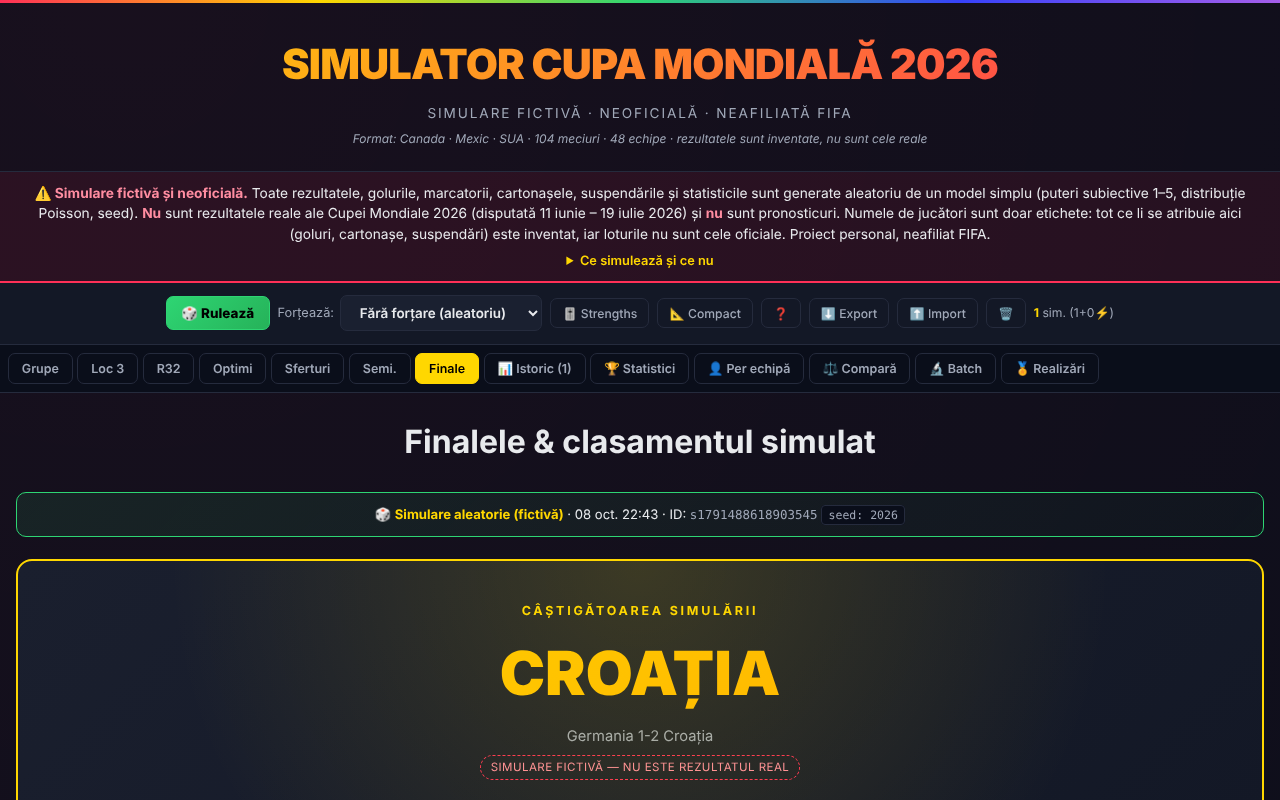
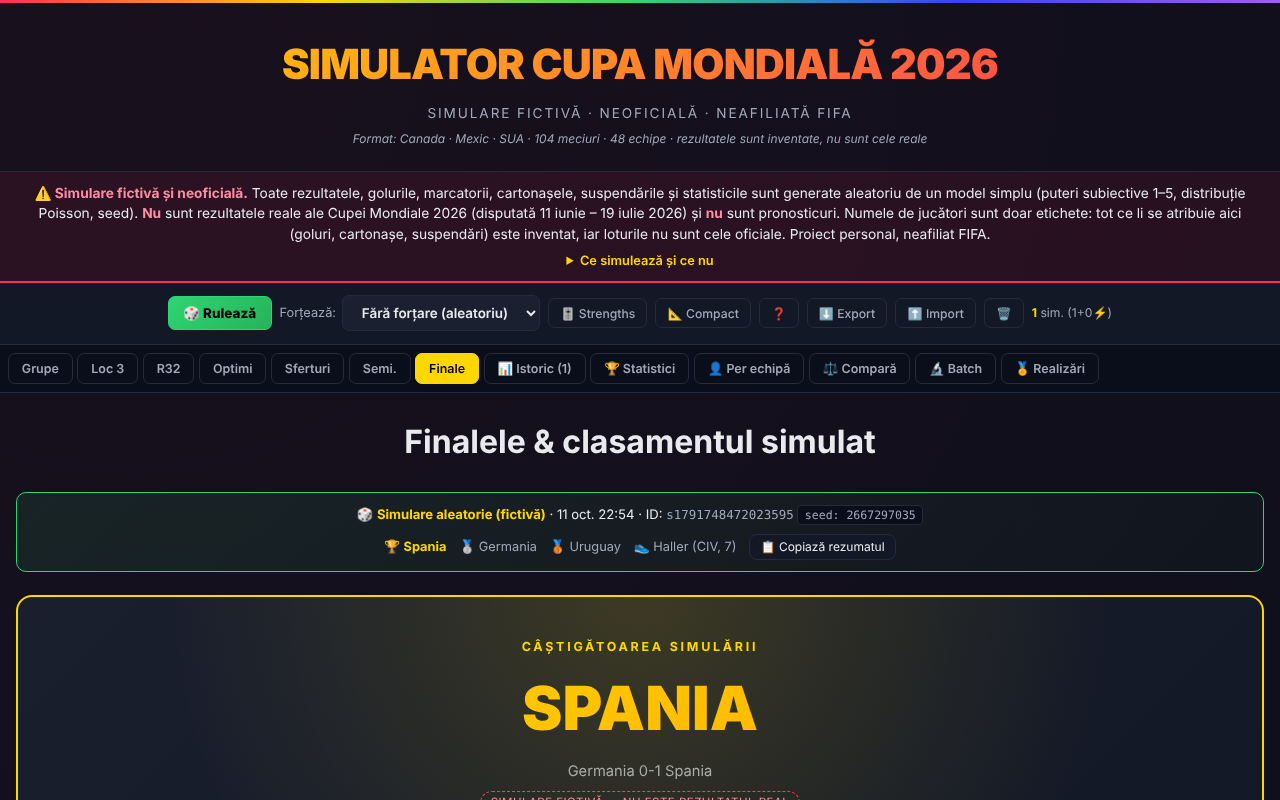
Runda 6 (11 octombrie 2026): reparații și îmbunătățiri
Claude-Session: https://claude.ai/code/session_01D2sCEb3hy3nutYexhUfQFs

diff --git a/index.html b/index.html
@@ -10,7 +10,7 @@
 <meta property="og:type" content="website">
 <meta property="og:title" content="Simulator Cupa Mondială 2026 (neoficial, neafiliat FIFA)">
 <meta property="og:description" content="Simulare fictivă, offline, fără telemetrie. Rezultatele sunt inventate de un model simplu și nu reflectă turneul real.">
-<meta http-equiv="Content-Security-Policy" content="default-src 'none'; script-src 'unsafe-inline'; style-src 'unsafe-inline'; img-src data:; connect-src 'none'; font-src 'none'; object-src 'none'; media-src 'none'; frame-src 'none'; form-action 'none'; base-uri 'none'">
+<meta http-equiv="Content-Security-Policy" content="default-src 'none'; script-src 'sha256-d+0H6X8VptFPfz1s3pm66pVP/WxxW+TqcIDl4miQy24='; style-src 'unsafe-inline'; img-src data:; connect-src 'none'; font-src 'none'; object-src 'none'; media-src 'none'; frame-src 'none'; form-action 'none'; base-uri 'none'">
 <meta name="referrer" content="no-referrer">
 <style>
 :root{--bg:#0a0e1a;--bg-card:#131826;--bg-card-2:#1a2030;--text:#e8eaed;--text-dim:#a0a8b8;--accent:#ffd700;--accent-2:#ff3057;--green:#2ed573;--blue:#3742fa;--purple:#a55eea;--yellow-card:#f5c518;--red-card:#e63946;--border:#252b3d;--ro-color:#ffd66e;--forced:#ff7eb6;--death:#9b1b30}
@@ -332,6 +332,10 @@ body.compact .susp-note{font-size:.65rem;padding:.2rem .4rem}
 .stadium-table td{padding:.4rem .35rem;border-top:1px solid var(--border);font-variant-numeric:tabular-nums}
 .stadium-table td.venue{font-weight:600}
 /* Seed display */
+.sim-sum{margin-top:.55rem;color:var(--text-dim);font-size:.8rem;display:flex;flex-wrap:wrap;gap:.3rem .8rem;justify-content:center;align-items:center}
+.sum-copy{background:var(--bg-card);border:1px solid var(--border);color:var(--text);border-radius:8px;padding:.3rem .65rem;font-size:.75rem;cursor:pointer;font-family:inherit}
+.sum-copy:hover,.sum-copy:focus-visible{border-color:var(--accent)}
+@media print{.sum-copy{display:none!important}}
 .seed-info{font-family:'SF Mono',Menlo,monospace;font-size:.72rem;color:var(--text-dim);background:var(--bg);padding:.15rem .4rem;border-radius:4px;border:1px solid var(--border)}
 .seed-input{font-family:'SF Mono',Menlo,monospace;font-size:.74rem;width:140px;background:var(--bg-card-2);border:1px solid var(--border);color:var(--text);padding:.35rem .5rem;border-radius:6px}
 /* PWA install button */
@@ -474,7 +478,7 @@ a:focus-visible,button:focus-visible,select:focus-visible,input:focus-visible,su
 <p>🏅 <em>Realizări</em> deblochezi pe măsură ce explorezi simulatorul.</p>
 <p>🖨 <em>Print</em> (P) — format print-friendly, ideal pentru rapoarte tipărite.</p>
 <h4>Despre</h4>
-<p>v7.2 · fișier HTML unic · fără cereri de rețea (CSP le blochează) · zero telemetrie · date salvate doar în browser (localStorage). Proiect personal în spiritul mișcării TROM trade-free; neafiliat FIFA.</p>
+<p>v7.3 · fișier HTML unic · fără cereri de rețea (CSP le blochează) · zero telemetrie · date salvate doar în browser (localStorage). Proiect personal în spiritul mișcării TROM trade-free; neafiliat FIFA.</p>
 </div>
 </div>
 
@@ -483,7 +487,7 @@ a:focus-visible,button:focus-visible,select:focus-visible,input:focus-visible,su
 <div class="toast-container" id="toast-container" role="status" aria-live="polite"></div>
 
 <footer>
-<p><b>Simulator Cupa Mondială 2026 v7.2</b> · simulare fictivă, neoficială · fișier unic · fără rețea · zero telemetrie</p>
+<p><b>Simulator Cupa Mondială 2026 v7.3</b> · simulare fictivă, neoficială · fișier unic · fără rețea · zero telemetrie</p>
 <p>Nu reprezintă rezultate reale și nu constituie pronosticuri. Proiect personal, neafiliat FIFA; denumirile competiției, echipelor, stadioanelor și numele jucătorilor aparțin proprietarilor lor și sunt folosite doar descriptiv.</p>
 </footer>
 
@@ -1709,6 +1713,32 @@ ${teams.map(t=>`<div class="editor-row"><span class="ename" title="${esc(t)}">${
 // === RENDER ===
 let currentSim=null, currentSimId=null, currentPhase='groups';
 
+// Rezumat scurt al simulării curente, afișat în banner și copiabil (text simplu, cu mențiunea „fictiv”)
+function sumParts(sim){
+  const f=sim.final||{}, ts=(sim.topScorers&&sim.topScorers[0])||null;
+  return {champ:sim.champion, runner:f.loser, third:sim.third&&sim.third.winner, scorer:ts};
+}
+function sumLine(sim){
+  if(!sim||!sim.champion) return '';
+  const p=sumParts(sim);
+  return '<div class="sim-sum"><span>🏆 <b>'+esc(p.champ)+'</b></span>'+(p.runner?'<span>🥈 '+esc(p.runner)+'</span>':'')+(p.third?'<span>🥉 '+esc(p.third)+'</span>':'')+(p.scorer?'<span>👟 '+esc(p.scorer.player)+' ('+esc(p.scorer.team)+', '+p.scorer.goals+')</span>':'')+'<button type="button" class="sum-copy" aria-label="Copiază rezumatul simulării curente ca text">📋 Copiază rezumatul</button></div>';
+}
+function sumText(sim){
+  const p=sumParts(sim);
+  return 'Simulare FICTIVĂ Cupa Mondială 2026 (neoficială, nu sunt rezultate reale):\n'
+    +'Campioană: '+p.champ+(sim.forced?' (câștigător forțat)':'')+'\n'
+    +(p.runner?'Finalistă: '+p.runner+'\n':'')+(p.third?'Locul 3: '+p.third+'\n':'')
+    +(p.scorer?'Golgheter: '+p.scorer.player+' ('+p.scorer.team+'), '+p.scorer.goals+' goluri\n':'')
+    +(sim.seed!==undefined?'Seed: '+sim.seed+'\n':'')+(/^https?:/.test(location.protocol+'//')?location.href.split('#')[0]:'');
+}
+async function copySummary(){
+  if(!currentSim) return;
+  const txt=sumText(currentSim);
+  try{ await navigator.clipboard.writeText(txt); toast('Rezumat copiat','ok'); }
+  catch(e){ prompt('Copiază rezumatul:',txt); }
+}
+document.addEventListener('click',e=>{ if(e.target.closest&&e.target.closest('.sum-copy')) copySummary(); });
+
 function renderCurrent(){
   if(!currentSim){
     document.querySelectorAll('.phase').forEach(p=>{if(p.dataset.phase!=='history'&&p.dataset.phase!=='aggregate'&&p.dataset.phase!=='compare'&&p.dataset.phase!=='perteam'&&p.dataset.phase!=='batch') p.innerHTML='<div class="empty-msg">Nicio simulare</div>';});
@@ -1719,8 +1749,9 @@ function renderCurrent(){
   const seedHTML=sim.seed!==undefined?`<span class="seed-info" title="Seed RNG - permite reproducere exactă">seed: ${sim.seed}</span>`:'';
   const banner=forced?`<div class="sim-banner forced">${sim.label?'<span class="label">"'+esc(sim.label)+'"</span> · ':''}⚡ <b>SIMULARE FORȚATĂ (fictivă)</b> — câștigător predeterminat: <b>${esc(forced)}</b> · ${fmtTs(sim.ts)} ${seedHTML}</div>`:`<div class="sim-banner">${sim.label?'<span class="label">"'+esc(sim.label)+'"</span> · ':''}🎲 <b>Simulare aleatorie (fictivă)</b> · ${fmtTs(sim.ts)} · ID: <code style="color:var(--text-dim);font-size:.78rem">${esc(sim.id)}</code> ${seedHTML}</div>`;
   
+  const bannerSum=banner.slice(0,-6)+sumLine(sim)+'</div>';
   const legacy=sim.fmt===2?'':'<div class="legacy-note">⚠ Simulare creată cu o versiune anterioară: tabloul eliminatoriu și alocarea locurilor 3 erau aproximate, iar programul/stadioanele pot fi inexacte. Rulează una nouă pentru formatul actual.</div>';
-  const grpHTML=banner+legacy+`<p class="note-line">Grupa <b style="color:#ff7a85">${esc(death)}</b> = Grupa Morții 💀 (suma cea mai mare de strength)</p>`+'<div class="groups-grid">'+'ABCDEFGHIJKL'.split('').map(k=>rGroup(k,sim.groups[k],forced,death)).join('')+'</div>';
+  const grpHTML=bannerSum+legacy+`<p class="note-line">Grupa <b style="color:#ff7a85">${esc(death)}</b> = Grupa Morții 💀 (suma cea mai mare de strength)</p>`+'<div class="groups-grid">'+'ABCDEFGHIJKL'.split('').map(k=>rGroup(k,sim.groups[k],forced,death)).join('')+'</div>';
   document.querySelector('.phase[data-phase="groups"]').innerHTML=`<div class="phase-header"><h2>Faza Grupelor</h2><p>72 meciuri · 12 grupe · Grupa Morții marcată · simulare fictivă</p></div>${grpHTML}`;
   
   document.querySelector('.phase[data-phase="thirds"]').innerHTML=`<div class="phase-header"><h2>Clasament Locurilor 3</h2><p>Cele mai bune 8 echipe avansează</p></div>${banner}${rThirds(sim.thirdRanking)}<p class="note-line">Ordine: puncte, golaveraj, goluri, fair-play (cartonașe simulate), apoi tragere la sorți cu seed. Adversarii din 1/16 se stabilesc după tabelul cu 495 de combinații (Anexa C a regulamentului), transcris din surse publice și validat automat; nu a fost verificat rând cu rând pe documentul oficial.</p>`;
@@ -1728,7 +1759,7 @@ function renderCurrent(){
   document.querySelector('.phase[data-phase="r16"]').innerHTML=`<div class="phase-header"><h2>Optimi (R16)</h2><p>8 meciuri · 4–7 iulie</p></div>${banner}${rKO(sim.r16,forced,'Traseul A','Traseul B')}`;
   document.querySelector('.phase[data-phase="qf"]').innerHTML=`<div class="phase-header"><h2>Sferturi</h2><p>4 meciuri · 9–11 iulie · ⚠ după sferturi, cartonașele se resetează</p></div>${banner}${rKO(sim.qf,forced,'Traseul A','Traseul B')}`;
   document.querySelector('.phase[data-phase="sf"]').innerHTML=`<div class="phase-header"><h2>Semifinale</h2><p>14 și 15 iulie</p></div>${banner}${sim.sf.map(m=>rMatch(m,forced,true)).join('')}`;
-  document.querySelector('.phase[data-phase="finale"]').innerHTML=`<div class="phase-header"><h2>Finalele & clasamentul simulat</h2></div>${banner}${rFinale(sim)}`;
+  document.querySelector('.phase[data-phase="finale"]').innerHTML=`<div class="phase-header"><h2>Finalele & clasamentul simulat</h2></div>${bannerSum}${rFinale(sim)}`;
 }
 
 function renderHistoryView(){ document.querySelector('.phase[data-phase="history"]').innerHTML=`<div class="phase-header"><h2>Istoric Simulări</h2><p>Filtrare · etichetare · partajare · export</p></div>`+rHistory(); }

diff --git a/README.md b/README.md
@@ -1,6 +1,6 @@
 # Simulator Cupa Mondială 2026 (neoficial)
 
-**Ultima actualizare:** 11 octombrie 2026 · versiune 7.2
+**Ultima actualizare:** 11 octombrie 2026 · versiune 7.3
 
 Simulator fictiv al Cupei Mondiale 2026 (48 de echipe, 104 meciuri) într-un singur fișier HTML, fără server și fără cont. **Nu este afiliat FIFA, nu conține rezultate reale și nu este un pronostic.**
 
@@ -17,6 +17,7 @@ Un joc/experiment de simulare: aplicația generează aleatoriu un turneu complet
 Verificate în cod și în browser (Chromium headless):
 - Simulare completă într-un click (buton „Rulează” sau tasta R), cu seed afișat; „Replay” din istoric reface aceeași simulare (același seed și aceleași puteri).
 - „Forțează”: alegi o echipă care câștigă obligatoriu turneul simulat (primește un bonus de putere, iar rezultatele eliminatorii îi sunt aranjate). Este un scenariu „ce-ar fi dacă”, fără valoare statistică.
+- Rezumat al simulării curente (campioană, finalistă, locul 3, golgheter) în bannerul din „Grupe” și „Finale”, cu butonul „📋 Copiază rezumatul”: copiază un text simplu care precizează că simularea este fictivă (adresa paginii se adaugă doar când pagina e servită prin http/https).
 - Grupe cu clasamente și departajare (puncte, meciuri directe, golaveraj, goluri, fair-play din cartonașele simulate, apoi tragere la sorți cu seed), clasamentul locurilor 3, tablou eliminatoriu cu numerotarea oficială a meciurilor (M73–M104) și diagramă SVG.
 - Alocarea locurilor 3 în 1/16 după tabelul cu 495 de combinații (Anexa C a regulamentului), transcris din surse publice (vezi „Limite”).
 - Marcatori cu minut (inclusiv prelungiri, penalty, lovitură liberă, autogol), cartonașe galbene/roșii, suspendări (2 galbene = 1 meci; roșu = 1 meci; galbenele se șterg după grupe și după sferturi), clasament golgheteri.
@@ -76,6 +77,10 @@ Alexio — Alexandru-Ionuț Chiuță, contact: alexio@trom.tf
 An unofficial, fictional simulator of the 2026 FIFA World Cup format (48 teams, 104 matches) in one offline HTML file. All scores, scorers, cards and statistics are random output of a simple Poisson model with subjective team strengths; they are not real results or predictions, and player names are mere labels. Group tiebreakers, the official knockout bracket and the third-place allocation (Annex C table, transcribed from public sources) are implemented; imports and shared links are strictly validated. No network requests, no telemetry; data stays in localStorage. Not affiliated with FIFA.
 
 ## Istoric / Changelog
+
+### 11 octombrie 2026 (v7.3)
+- Rezumat copiabil al simulării (campioană, finalistă, locul 3, golgheter) în bannerele „Grupe” și „Finale”.
+- CSP: `script-src` pe hash SHA-256, fără `'unsafe-inline'`.
 
 ### 11 octombrie 2026 (v7.2)
 - Bara de avertisment și panoul de comenzi sunt acum repere (`section` cu nume): axe 0 încălcări, inclusiv `region`.
